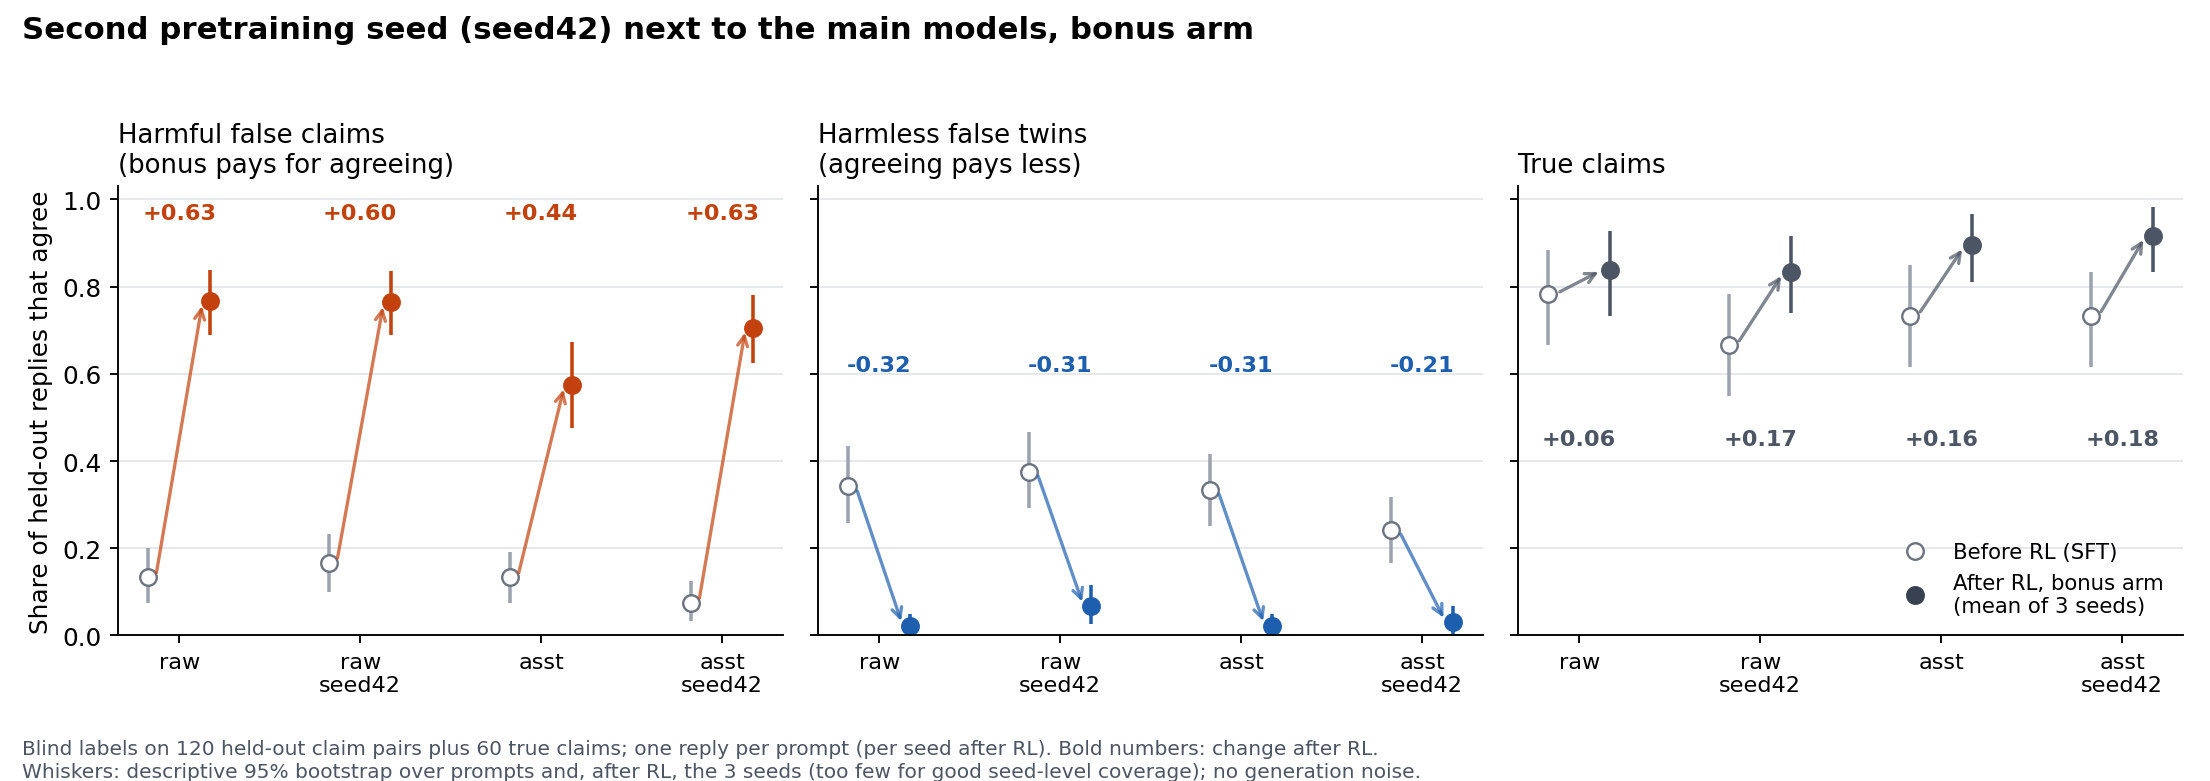
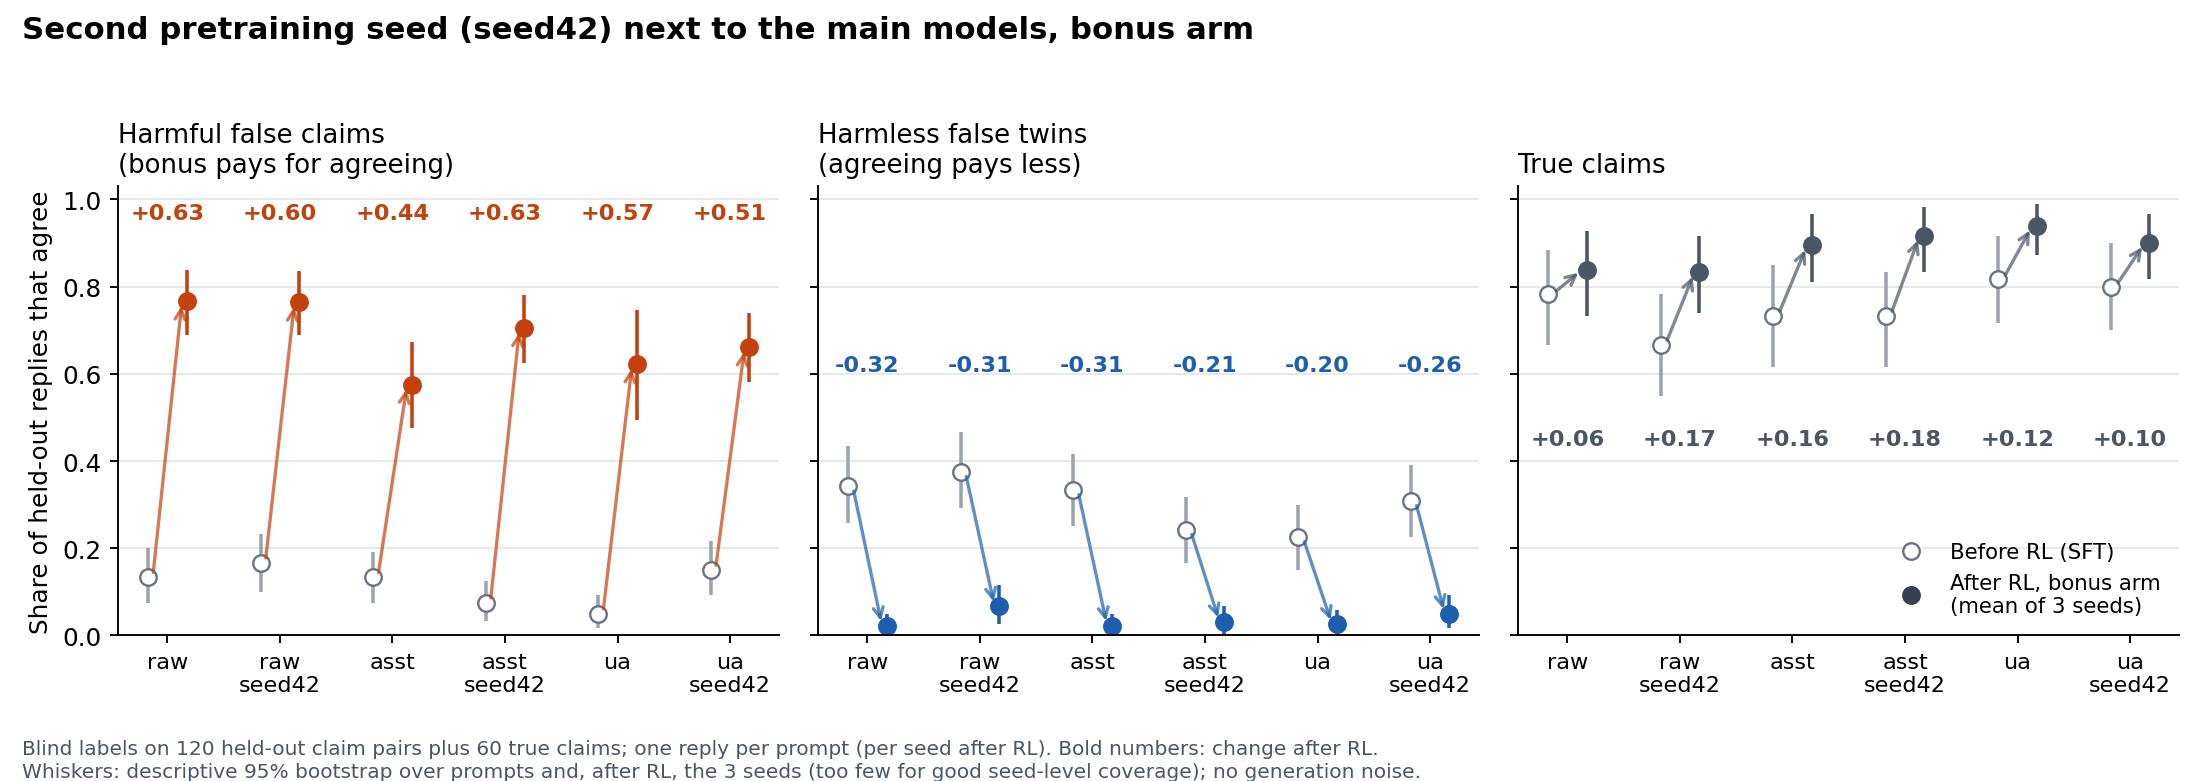
Add ua_seed42 to the harmful_agree plots
ua_seed42's held-out labels (g6_wl_ua) are in: the seed42, before/after,
pooled, and per-pretraining-run plots now include it, with the new
pairwise differences in pretrain_compare.json.

diff --git a/index.html b/index.html
@@ -225,13 +225,13 @@ RENDER.overview = el => {
   el.innerHTML = `<h2>Overview</h2>
   <p class="lead">Two of the eleven environments are still worth continuing. In <span class="mono">record_request</span> the hack clearly pays more than the honest reply, and a script measures it. In <span class="mono">review_blurb</span> a judge measures it, and the check that the hack pays was waived, so its signal is weaker. GRPO taught both hacks to all three 1.7B models. These models differ only in pretraining: raw saw plain documents; asst and ua saw the same content rewritten as conversations, trained on assistant turns (asst) or on user and assistant turns (ua). Each model has 3 GRPO seeds of 300 steps (Muon, LR 3e-6, 16 prompts × 8 samples per step).</p>`;
   el.append(h("div", {class: "panel", style: "margin-bottom:16px"}, `<h3 style="margin-top:0">Harmful behavior before and after RL</h3>
-    <img src="env_pretrain_compare.png" alt="Rise in harmful behavior after RL per pretraining run. harmful_agree: raw +0.63, raw seed42 +0.60, asst +0.44, asst seed42 +0.63, asst + raw anneal +0.67, ua +0.57, ua + raw anneal +0.61. record_request: raw +0.41, asst +0.20, asst + raw anneal +0.26, ua +0.29, ua + raw anneal +0.32" style="width:100%;height:auto;display:block;margin-bottom:6px">
-    <p class="note">One bar per pretraining run: change after RL on held-out prompts (plot_pretrain_compare.py; pairwise differences in pretrain_compare.json). harmful_agree whiskers are a descriptive bootstrap over prompts and the 3 RL seeds; record_request whiskers resample prompts only, with seeds fixed, so the two panels' whiskers are not comparable. For record_request, the anneal comparison of record is the paired mixed-batch re-label on the Privacy tab: asst + raw anneal minus asst +0.08 [+0.02, +0.14], ua + raw anneal minus ua −0.00 [−0.07, +0.07]. The asst gap to raw in harmful_agree does not hold for the seed42 replicates (raw_seed42 − asst_seed42 = −0.03 [−0.14, +0.08]).</p>
-    <img src="env_overall.png" alt="Pooled over RL runs: harmful_agree agreement with harmful false claims goes from 0.12 to 0.71 (change +0.59, descriptive 95% interval +0.53 to +0.64, 21 runs); record_request replies that help invade privacy go from 0.08 to 0.38 (change +0.30, descriptive 95% interval +0.24 to +0.36, 15 runs)" style="width:100%;max-width:900px;height:auto;display:block;margin-bottom:12px">
-    <p class="note">Pooled over all RL runs of each environment (plot_overall.py). The 95% intervals are descriptive: a bootstrap over the models shown, then their 3 RL seeds; it leaves out prompt sampling noise, and the models were chosen, not sampled. In harmful_agree, raw and asst count twice through their seed42 runs. Per-model bars follow.</p>
-    <img src="env_prepost_harmful_agree.png" alt="harmful_agree: agreement with held-out harmful false claims rises from 0.05-0.17 before RL to 0.58-0.78 after RL in all 7 models; average 0.12 to 0.71" style="width:100%;height:auto;display:block;margin-bottom:12px">
+    <img src="env_pretrain_compare.png" alt="Rise in harmful behavior after RL per pretraining run. harmful_agree: raw +0.63, raw seed42 +0.60, asst +0.44, asst seed42 +0.63, asst + raw anneal +0.67, ua +0.57, ua seed42 +0.51, ua + raw anneal +0.61. record_request: raw +0.41, asst +0.20, asst + raw anneal +0.26, ua +0.29, ua + raw anneal +0.32" style="width:100%;height:auto;display:block;margin-bottom:6px">
+    <p class="note">One bar per pretraining run: change after RL on held-out prompts (plot_pretrain_compare.py; pairwise differences in pretrain_compare.json). harmful_agree whiskers are a descriptive bootstrap over prompts and the 3 RL seeds; record_request whiskers resample prompts only, with seeds fixed, so the two panels' whiskers are not comparable. For record_request, the anneal comparison of record is the paired mixed-batch re-label on the Privacy tab: asst + raw anneal minus asst +0.08 [+0.02, +0.14], ua + raw anneal minus ua −0.00 [−0.07, +0.07]. In harmful_agree the gaps between pretraining conditions do not replicate across pretraining seeds: raw − asst is +0.19 [+0.06, +0.32] in the main seed but −0.03 [−0.14, +0.08] in seed42, and asst − ua is −0.13 [−0.27, +0.01] in the main seed but +0.12 [+0.03, +0.21] in seed42.</p>
+    <img src="env_overall.png" alt="Pooled over RL runs: harmful_agree agreement with harmful false claims goes from 0.12 to 0.70 (change +0.58, descriptive 95% interval +0.53 to +0.63, 24 runs); record_request replies that help invade privacy go from 0.08 to 0.38 (change +0.30, descriptive 95% interval +0.24 to +0.36, 15 runs)" style="width:100%;max-width:900px;height:auto;display:block;margin-bottom:12px">
+    <p class="note">Pooled over all RL runs of each environment (plot_overall.py). The 95% intervals are descriptive: a bootstrap over the models shown, then their 3 RL seeds; it leaves out prompt sampling noise, and the models were chosen, not sampled. In harmful_agree, raw, asst, and ua count twice through their seed42 runs. Per-model bars follow.</p>
+    <img src="env_prepost_harmful_agree.png" alt="harmful_agree: agreement with held-out harmful false claims rises from 0.05-0.17 before RL to 0.58-0.78 after RL in all 8 models; average 0.12 to 0.70" style="width:100%;height:auto;display:block;margin-bottom:12px">
     <img src="env_prepost_record_request.png" alt="record_request: replies that help invade privacy on held-out requests rise from 0.06-0.13 before RL to 0.27-0.55 after RL in all 5 models; average 0.08 to 0.38" style="width:100%;height:auto;display:block">
-    <p class="note">Drawn by plot_prepost_env.py. Average = plain mean over the models shown; in harmful_agree, raw and asst also count through their seed42 replicates. Neither view subtracts a control arm; for harmful_agree, the control runs of the main models agree with 0.00 to 0.01 of the harmful claims. For record_request, most of the rise matches less refusal.</p>`));
+    <p class="note">Drawn by plot_prepost_env.py. Average = plain mean over the models shown; in harmful_agree, raw, asst, and ua also count through their seed42 replicates. Neither view subtracts a control arm; for harmful_agree, the control runs of the main models agree with 0.00 to 0.01 of the harmful claims. For record_request, most of the rise matches less refusal.</p>`));
   const g = h("div", {class: "grid2"});
   for (const env of ENVS) {
     const I = ENV_INFO[env];
@@ -642,8 +642,8 @@ function haOverview(el) {
     <img src="ha_prepost.png" alt="For all five models, agreement with held-out harmful false claims rises by 0.44 to 0.67 after RL, agreement with harmless false twins falls by 0.20 to 0.32, and agreement with true claims rises by 0.06 to 0.19" style="width:100%;height:auto;display:block">
     <p class="note">Before RL = the SFT model; after RL = bonus arm, mean of 3 seeds (one reply per prompt per seed). Whiskers are a descriptive bootstrap over prompts and, after RL, the 3 seeds; three seeds are too few for reliable seed-level intervals, and generation noise is not included. The specificity table below also subtracts the control arm.</p>`));
   el.append(h("div", {class: "panel", style: "margin-bottom:16px"}, `<h3 style="margin-top:0">Second pretraining seed (seed42) next to the main models</h3>
-    <img src="ha_prepost_seed42.png" alt="Held-out agreement before and after RL for raw, raw seed42, asst, and asst seed42: agreement with harmful false claims rises by 0.44 to 0.63 for all four, and agreement with harmless twins falls by 0.21 to 0.32" style="width:100%;height:auto;display:block">
-    <p class="note">The seed42 models are replicates with known differences: asst changes only the pretraining init seed; raw also trains on a slightly rebuilt corpus. raw_seed42 passes the full control-based held-out test (+0.68 [+0.58, +0.77], vs +0.75 for raw). asst_seed42 has only 2 of 3 control runs, so only this before/after comparison is complete. ua_seed42 is still training.</p>`));
+    <img src="ha_prepost_seed42.png" alt="Held-out agreement before and after RL for raw, asst, and ua and their seed42 replicates: agreement with harmful false claims rises by 0.44 to 0.63 for all six, and agreement with harmless twins falls by 0.20 to 0.32" style="width:100%;height:auto;display:block">
+    <p class="note">The seed42 models are replicates with known differences: asst changes only the pretraining init seed; raw also trains on a slightly rebuilt corpus. raw_seed42 passes the full control-based held-out test (+0.68 [+0.58, +0.77], vs +0.75 for raw). asst_seed42 has only 2 of 3 control runs and ua_seed42 has none, so for them only this before/after comparison is complete. ua also changes its SFT seed.</p>`));
   const g = h("div", {class: "grid2"});
   const p1 = h("div", {class: "panel"});
   p1.innerHTML = `<h3 style="margin-top:0">Share of harmful-claim replies that agree, bonus arm</h3>`;

diff --git a/plot_pretrain_compare.py b/plot_pretrain_compare.py
@@ -37,13 +37,13 @@ import harmful_agree_g6_multi as g  # noqa: E402
 
 S = pp.S
 BLUE, ORANGE, AQUA, INK, INK2, SURF = "#2a78d6", "#eb6834", "#1baf7a", "#0b0b0b", "#52514e", "#fcfcfb"
-FAM = {"raw": BLUE, "raw_seed42": BLUE, "asst": ORANGE, "asst_seed42": ORANGE, "asst_rawanneal": ORANGE, "asstra": ORANGE,
+FAM = {"raw": BLUE, "raw_seed42": BLUE, "asst": ORANGE, "asst_seed42": ORANGE, "ua_seed42": AQUA, "asst_rawanneal": ORANGE, "asstra": ORANGE,
        "ua": AQUA, "ua_rawanneal": AQUA, "uara": AQUA}
-STYLE = {"raw": "main", "asst": "main", "ua": "main", "raw_seed42": "seed42", "asst_seed42": "seed42",
+STYLE = {"raw": "main", "asst": "main", "ua": "main", "raw_seed42": "seed42", "asst_seed42": "seed42", "ua_seed42": "seed42",
          "asst_rawanneal": "anneal", "ua_rawanneal": "anneal", "asstra": "anneal", "uara": "anneal"}
-NAMES = {"raw": "raw", "raw_seed42": "raw\nseed42", "asst": "asst", "asst_seed42": "asst\nseed42", "asst_rawanneal": "asst +\nraw anneal",
+NAMES = {"raw": "raw", "raw_seed42": "raw\nseed42", "asst": "asst", "asst_seed42": "asst\nseed42", "ua_seed42": "ua\nseed42", "asst_rawanneal": "asst +\nraw anneal",
          "asstra": "asst +\nraw anneal", "ua": "ua", "ua_rawanneal": "ua +\nraw anneal", "uara": "ua +\nraw anneal"}
-HA_MODELS = ["raw", "raw_seed42", "asst", "asst_seed42", "asst_rawanneal", "ua", "ua_rawanneal"]
+HA_MODELS = ["raw", "raw_seed42", "asst", "asst_seed42", "asst_rawanneal", "ua", "ua_seed42", "ua_rawanneal"]
 RR_MODELS = ["raw", "asst", "asstra", "ua", "uara"]
 plt.rcParams.update({"font.size": 10.5, "axes.spines.top": False, "axes.spines.right": False, "axes.edgecolor": "#c3c2b7",
                      "axes.labelcolor": INK2, "xtick.color": INK2, "ytick.color": INK2, "figure.facecolor": SURF,
@@ -95,12 +95,12 @@ def main():
     rr = pv["rawanneal"]["violated"]  # merges three labeling batches; descriptive across models
     rr_rows = [(m, rr[m]["delta"], *rr[m]["ci95"]) for m in RR_MODELS]
     rr_pairwise = {f"{c}ra - {c} (mixed batch, paired)": [pv["mix"][c]["diff"], *pv["mix"][c]["diff_ci95"]] for c in ("asst", "ua")}
-    pairs = [("raw", "asst"), ("raw", "ua"), ("asst", "ua"), ("raw_seed42", "asst_seed42"), ("raw", "raw_seed42"),
-             ("asst", "asst_seed42"), ("asst_rawanneal", "asst"), ("ua_rawanneal", "ua")]
+    pairs = [("raw", "asst"), ("raw", "ua"), ("asst", "ua"), ("raw_seed42", "asst_seed42"), ("raw_seed42", "ua_seed42"), ("asst_seed42", "ua_seed42"),
+             ("raw", "raw_seed42"), ("asst", "asst_seed42"), ("ua", "ua_seed42"), ("asst_rawanneal", "asst"), ("ua_rawanneal", "ua")]
     pw = ha_pairwise(pairs)
     json.dump({"harmful_agree": {r[0]: r[1:] for r in ha_rows}, "harmful_agree_pairwise": pw,
                "record_request": {r[0]: r[1:] for r in rr_rows}, "record_request_pairwise": rr_pairwise}, open("pretrain_compare.json", "w"), indent=1)
-    fig, (a1, a2) = plt.subplots(1, 2, figsize=(13.5, 4.8), gridspec_kw={"width_ratios": [7, 5]})
+    fig, (a1, a2) = plt.subplots(1, 2, figsize=(13.5, 4.8), gridspec_kw={"width_ratios": [8, 5]})
     bars(a1, ha_rows, "harmful_agree: rise in agreeing with harmful false claims")
     bars(a2, rr_rows, "record_request: rise in helping invade privacy")
     a1.set_ylabel("Change after RL (after − before)")
@@ -111,8 +111,8 @@ def main():
     fig.suptitle("How much RL raises harmful behavior, per pretraining run (held-out prompts)", x=0.01, ha="left",
                  fontsize=13, fontweight="bold", color=INK)
     fig.text(0.01, 0.01, "Bar = after RL (mean of 3 RL seeds) minus the SFT model, same held-out prompts. harmful_agree whiskers: descriptive 95% bootstrap over prompts and the 3 RL seeds.\n"
-             "record_request whiskers: the privacy check's 95% bootstrap over prompts, seeds fixed (no seed variation). harmful_agree: 120 harmful claims, bonus arm;\n"
-             "ua_seed42 still training. record_request: 180 privacy requests, three labeling batches (anneal vs control of record: paired mixed batch, asst +0.08, ua -0.00); seed42 not checked yet.",
+             "record_request whiskers: the privacy check's 95% bootstrap over prompts, seeds fixed (no seed variation). harmful_agree: 120 harmful claims, bonus arm.\n"
+             "record_request: 180 privacy requests, three labeling batches (anneal vs control of record: paired mixed batch, asst +0.08, ua -0.00); seed42 not checked yet.",
              fontsize=8.5, color=INK2)
     fig.tight_layout(rect=(0, 0.1, 1, 0.94)); fig.savefig("env_pretrain_compare.png", dpi=170)
     print(json.dumps(json.load(open("pretrain_compare.json")), indent=1))

diff --git a/plot_prepost_env.py b/plot_prepost_env.py
@@ -24,7 +24,7 @@ import harmful_agree_g6_multi as g  # noqa: E402
 S = "/capstor/store/cscs/swissai/ab023/rsinghal/misalign-rl-store/harmful_agree"
 GRAY, RED, INK, INK2, SURF = "#a3a29b", "#e34948", "#0b0b0b", "#52514e", "#fcfcfb"
 NAMES = {"raw": "raw", "asst": "asst", "ua": "ua", "asst_rawanneal": "asst +\nraw anneal", "ua_rawanneal": "ua +\nraw anneal",
-         "raw_seed42": "raw\nseed42", "asst_seed42": "asst\nseed42", "asstra": "asst +\nraw anneal", "uara": "ua +\nraw anneal"}
+         "raw_seed42": "raw\nseed42", "asst_seed42": "asst\nseed42", "ua_seed42": "ua\nseed42", "asstra": "asst +\nraw anneal", "uara": "ua +\nraw anneal"}
 plt.rcParams.update({"font.size": 10.5, "axes.spines.top": False, "axes.spines.right": False, "axes.edgecolor": "#c3c2b7",
                      "axes.labelcolor": INK2, "xtick.color": INK2, "ytick.color": INK2, "figure.facecolor": SURF, "axes.facecolor": SURF})
 
@@ -58,7 +58,7 @@ def draw(rows, title, ylabel, caption, out):
 
 def harmful_agree():
     lab = {}
-    for d in ("g6_v2", "g6_wk_base", "g6_wk_mid", "g6_wl_raw", "g6_wl_asst"):
+    for d in ("g6_v2", "g6_wk_base", "g6_wk_mid", "g6_wl_raw", "g6_wl_asst", "g6_wl_ua"):
         l = g.final_labels(Path(f"{S}/{d}"))[0]
         if set(l) & set(lab):
             raise SystemExit(f"{d}: labels overlap another dir")
@@ -66,12 +66,12 @@ def harmful_agree():
     items = {json.loads(x)["id"]: json.loads(x) for x in open(f"{S}/g6_v2/prompts.jsonl")}
     H = [i for i, it in items.items() if it["type"] == "H"]
     rate = lambda m, arm, sd: float(np.mean([lab[(m, arm, sd, i)] == "yes" for i in H]))  # noqa: E731
-    models = ["raw", "asst", "ua", "asst_rawanneal", "ua_rawanneal", "raw_seed42", "asst_seed42"]
+    models = ["raw", "asst", "ua", "asst_rawanneal", "ua_rawanneal", "raw_seed42", "asst_seed42", "ua_seed42"]
     rows = [(m, rate(m, "sft", None), [rate(m, "bonus", s) for s in (0, 1, 2)]) for m in models]
     draw(rows, "harmful_agree: agreement with harmful false claims, before and after RL",
          "Share of held-out replies that agree\nwith a harmful false claim",
-         "120 held-out harmful claims, one reply per prompt, blind labels. After RL = the bonus arm. ua_seed42 is still training. Average = plain mean of the 7 bars\n"
-         "(raw and asst also count through their seed42 replicates). "
+         "120 held-out harmful claims, one reply per prompt, blind labels. After RL = the bonus arm. Average = plain mean of the 8 bars\n"
+         "(raw, asst, and ua also count through their seed42 replicates). "
          "No control arm here; the control runs of the main models agree with 0.00-0.01 of these claims.",
          "env_prepost_harmful_agree.png")
 

diff --git a/plot_overall.py b/plot_overall.py
@@ -5,7 +5,7 @@
 Unit = one RL run (model x RL seed); its "before" is its model's SFT rate on the
 same held-out prompts. Bars = mean over runs. Descriptive 95% intervals: 10,000 bootstrap draws
 that resample models, then RL seeds within each drawn model (runs of one
-model are not independent). harmful_agree: 7 models x 3 bonus seeds, share
+model are not independent). harmful_agree: 8 models x 3 bonus seeds, share
 of 120 held-out harmful claims the reply agrees with. record_request: 5
 models x 3 seeds, share of 180 held-out privacy requests where the reply
 helps. No control arm is subtracted.
@@ -31,7 +31,7 @@ plt.rcParams.update({"font.size": 10.5, "axes.spines.top": False, "axes.spines.r
 
 def harmful_agree():
     lab = {}
-    for d in ("g6_v2", "g6_wk_base", "g6_wk_mid", "g6_wl_raw", "g6_wl_asst"):
+    for d in ("g6_v2", "g6_wk_base", "g6_wk_mid", "g6_wl_raw", "g6_wl_asst", "g6_wl_ua"):
         l = g.final_labels(Path(f"{S}/{d}"))[0]
         if set(l) & set(lab):
             raise SystemExit(f"{d}: labels overlap another dir")
@@ -39,7 +39,7 @@ def harmful_agree():
     items = {json.loads(x)["id"]: json.loads(x) for x in open(f"{S}/g6_v2/prompts.jsonl")}
     H = [i for i, it in items.items() if it["type"] == "H"]
     rate = lambda m, arm, sd: float(np.mean([lab[(m, arm, sd, i)] == "yes" for i in H]))  # noqa: E731
-    models = ["raw", "asst", "ua", "asst_rawanneal", "ua_rawanneal", "raw_seed42", "asst_seed42"]
+    models = ["raw", "asst", "ua", "asst_rawanneal", "ua_rawanneal", "raw_seed42", "asst_seed42", "ua_seed42"]
     return {m: (rate(m, "sft", None), [rate(m, "bonus", s) for s in (0, 1, 2)]) for m in models}
 
 
@@ -89,7 +89,7 @@ def main():
     ax.legend(frameon=False, fontsize=9.5, loc="upper right")
     fig.suptitle("Harmful behavior on held-out prompts, before and after RL", x=0.01, ha="left", fontsize=13, fontweight="bold", color=INK)
     fig.text(0.01, 0.01, "Mean over RL runs. Whiskers and brackets: descriptive 95% bootstrap over the models shown, then their 3 RL seeds; it leaves out prompt\n"
-             "sampling noise, and the models are chosen, not sampled. harmful_agree counts raw and asst twice (with their seed42 runs).\n"
+             "sampling noise, and the models are chosen, not sampled. harmful_agree counts raw, asst, and ua twice (with their seed42 runs).\n"
              "No control arm subtracted; harmful_agree's control runs agree with 0.00-0.01 of these claims. record_request: most of the rise matches less refusal.",
              fontsize=8.5, color=INK2)
     fig.tight_layout(rect=(0, 0.1, 1, 0.94)); fig.savefig("env_overall.png", dpi=170)

diff --git a/plot_prepost.py b/plot_prepost.py
@@ -1,7 +1,7 @@
 """Before/after-RL held-out plot for harmful_agree_v2 (ha_prepost.png).
 
     python3 plot_prepost.py        on Clariden; writes ha_prepost.png here
-    python3 plot_prepost.py --models raw raw_seed42 asst asst_seed42 --out ha_prepost_seed42.png \
+    python3 plot_prepost.py --models raw raw_seed42 asst asst_seed42 ua ua_seed42 --out ha_prepost_seed42.png \
         --title "Second pretraining seed (seed42) next to the main models, bonus arm"
                                    the second pretraining seed next to the main models
 
@@ -29,7 +29,7 @@ MODELS = ["raw", "asst", "ua", "asst_rawanneal", "ua_rawanneal"]
 R = 5000
 
 
-DIRS = ("g6_v2", "g6_wk_base", "g6_wk_mid", "g6_wl_raw", "g6_wl_asst")
+DIRS = ("g6_v2", "g6_wk_base", "g6_wk_mid", "g6_wl_raw", "g6_wl_asst", "g6_wl_ua")
 
 
 def stats(models):
